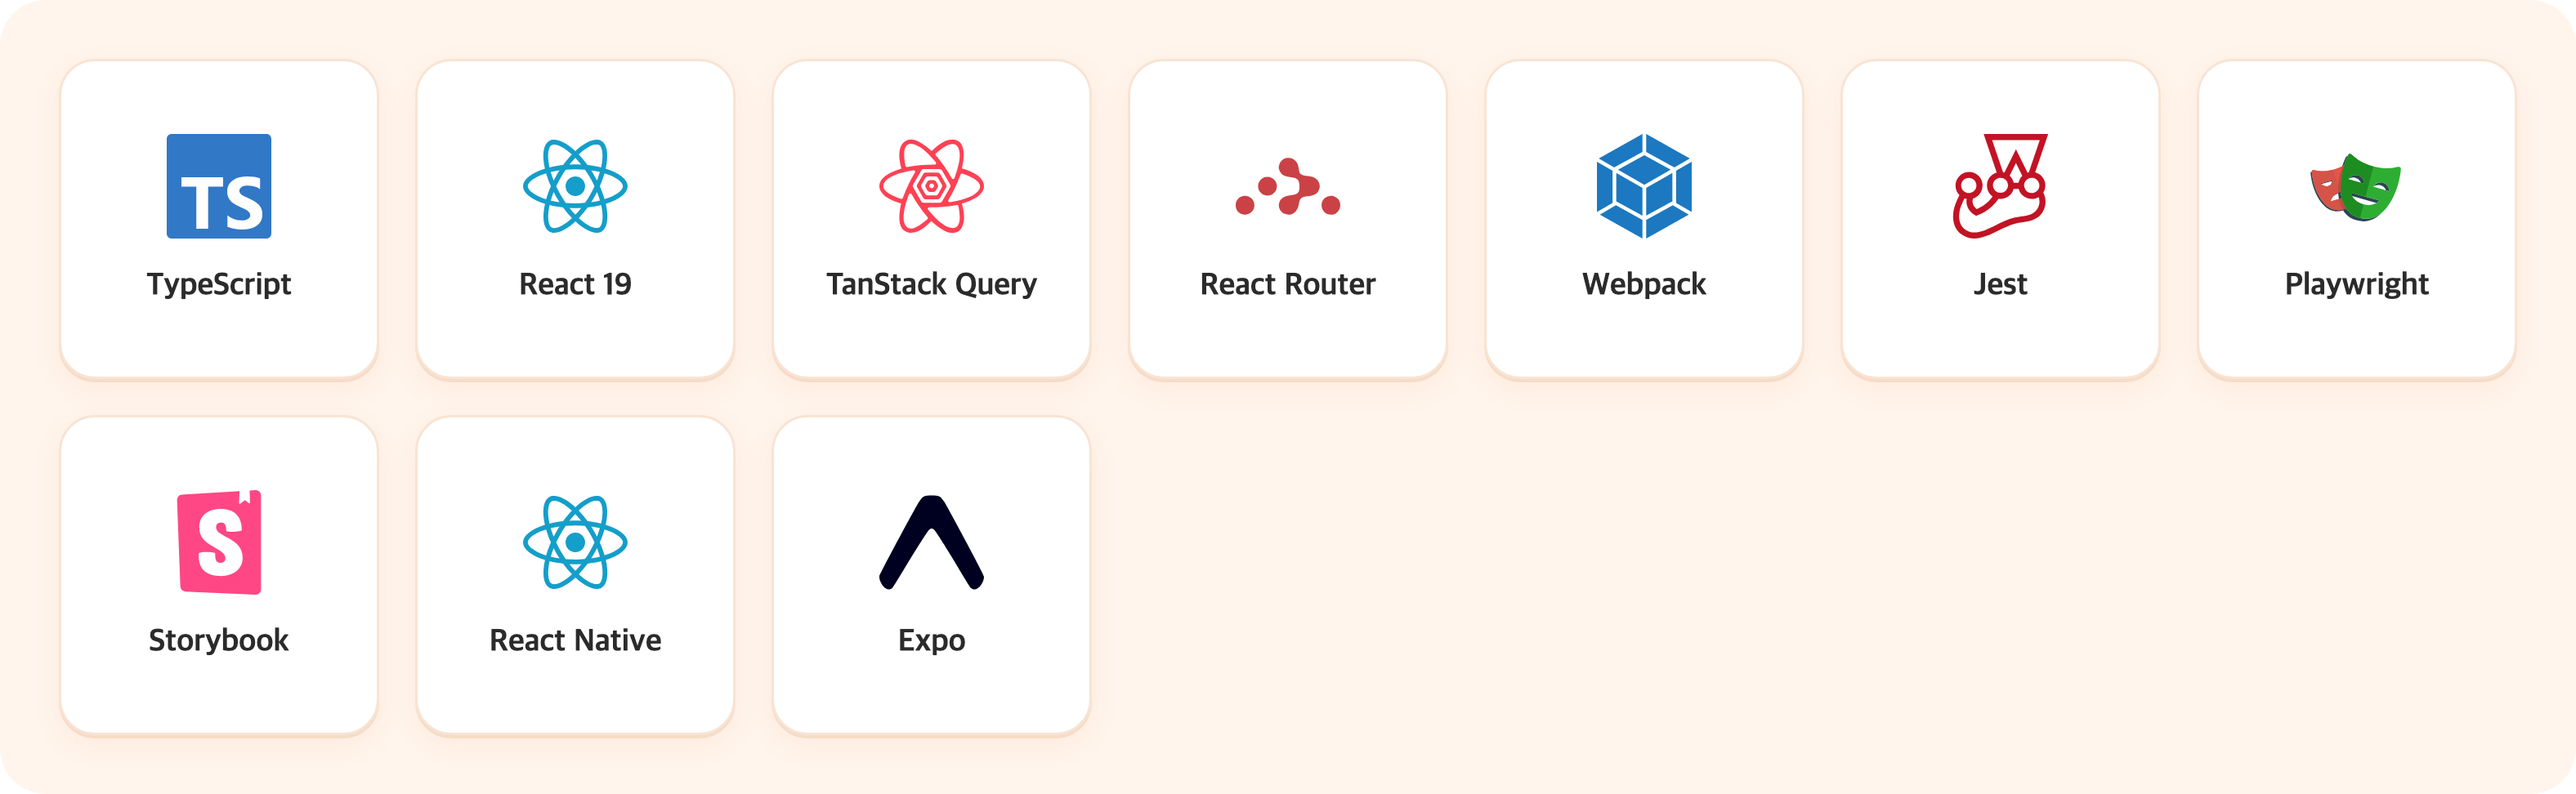
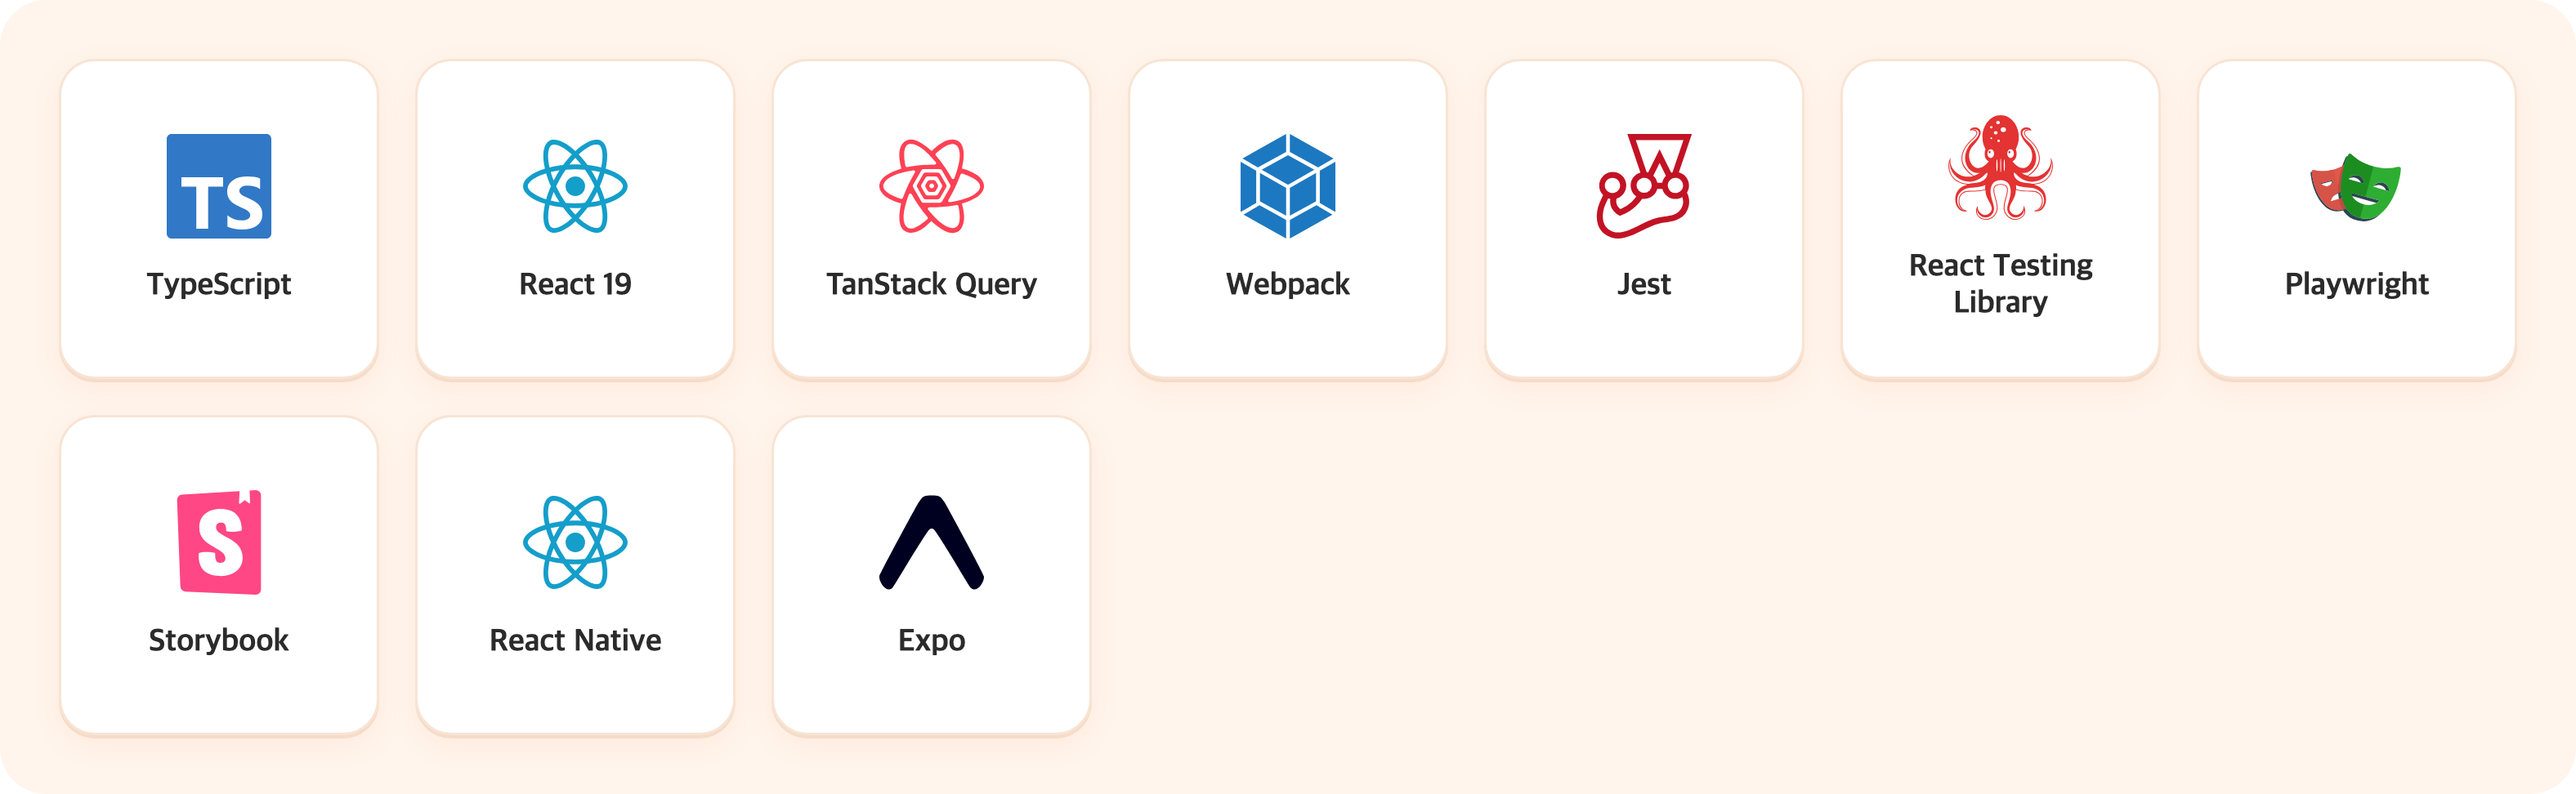
docs(common): 기술 스택 이미지 구성 수정

diff --git a/README.md b/README.md
@@ -52,7 +52,7 @@
 
 ### Frontend & App (iOS · Android)
 
-<img src="./.github/assets/stack/frontend.png" width="830" alt="TypeScript, React 19, TanStack Query, React Router, Webpack, Jest, Playwright, Storybook, React Native, Expo">
+<img src="./.github/assets/stack/frontend.png" width="830" alt="TypeScript, React 19, TanStack Query, Webpack, Jest, React Testing Library, Playwright, Storybook, React Native, Expo">
 
 ### Backend
 
@@ -64,7 +64,7 @@
 
 ### Infrastructure & CI/CD
 
-<img src="./.github/assets/stack/infra.png" width="830" alt="Amazon EC2, Amazon RDS, Amazon S3, CloudFront, Cloudflare R2, Docker, Nginx, GitHub Actions, GHCR, EAS Build">
+<img src="./.github/assets/stack/infra.png" width="830" alt="Amazon EC2, Amazon RDS, Amazon S3, CloudFront, CodePipeline, CodeBuild, Cloudflare R2, Docker, Nginx, GitHub Actions, GHCR, EAS Build">
 
 ### Monitoring
 
